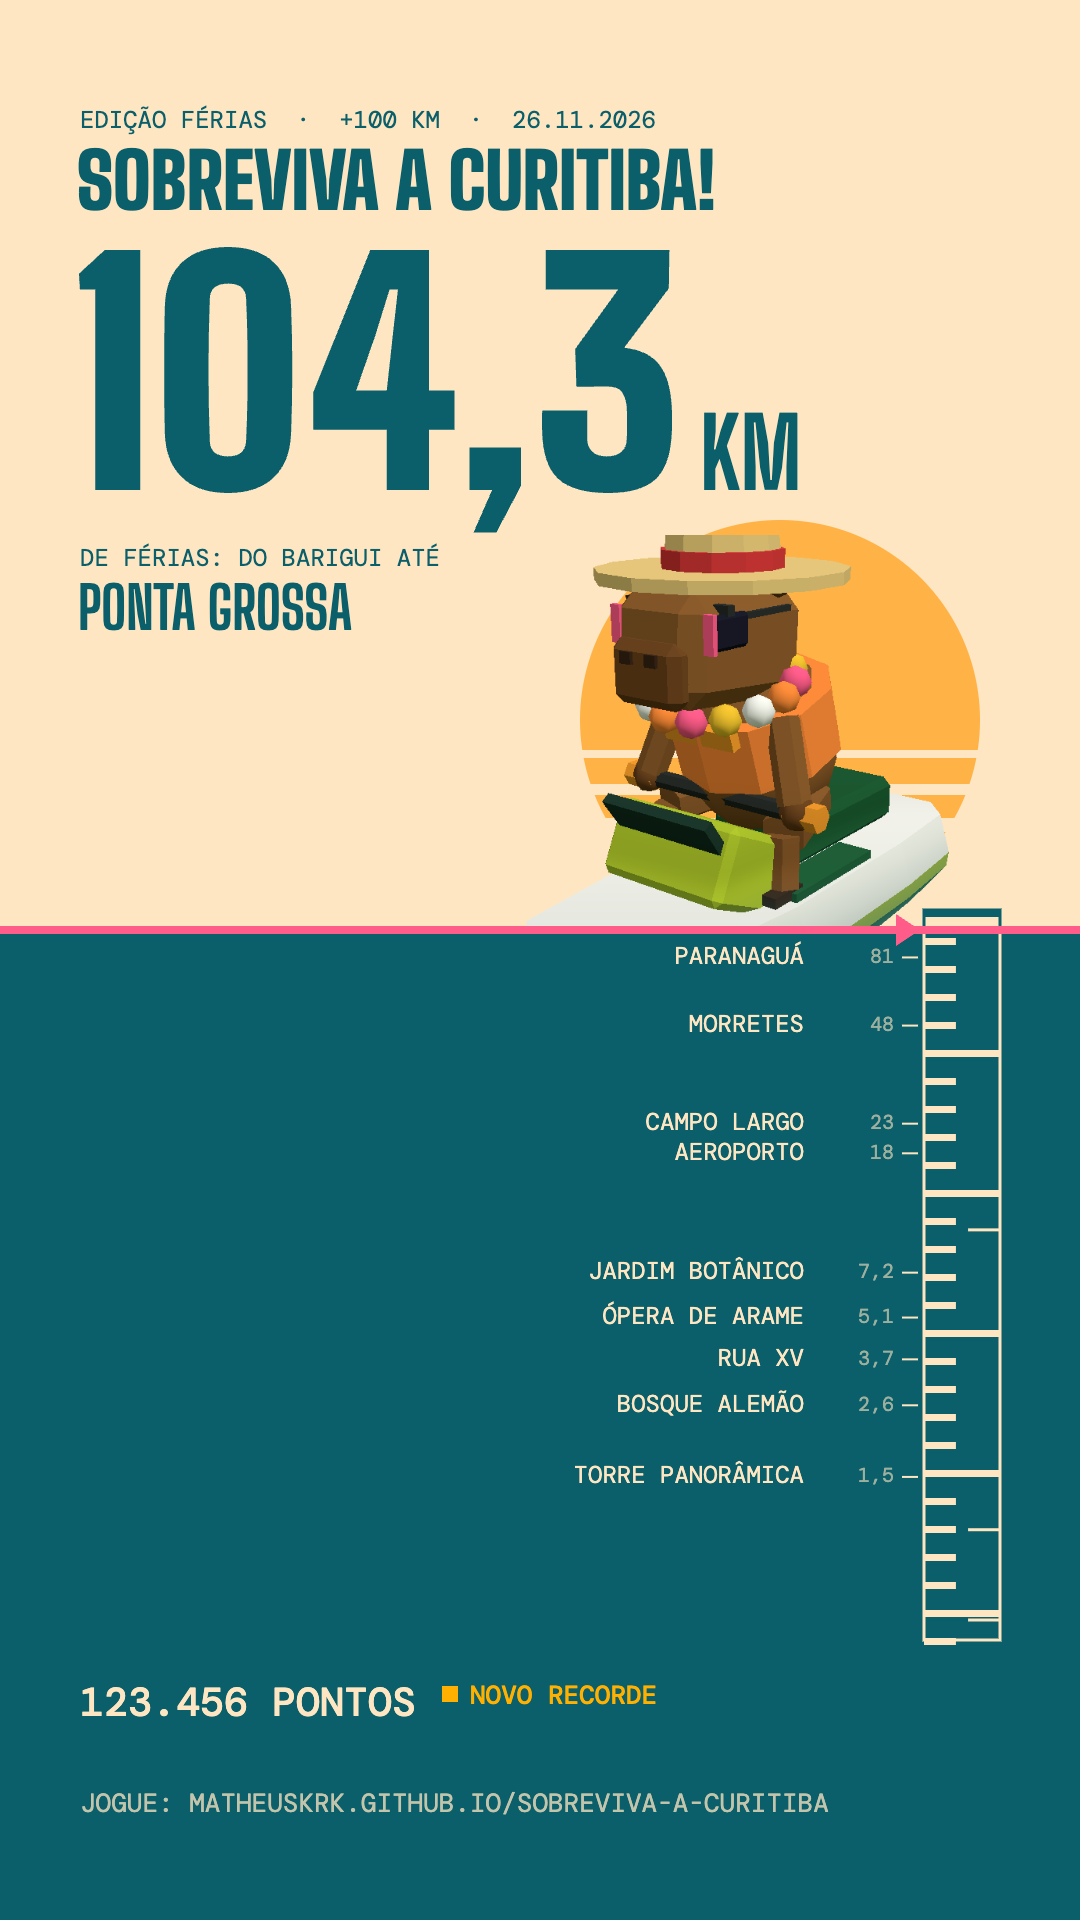
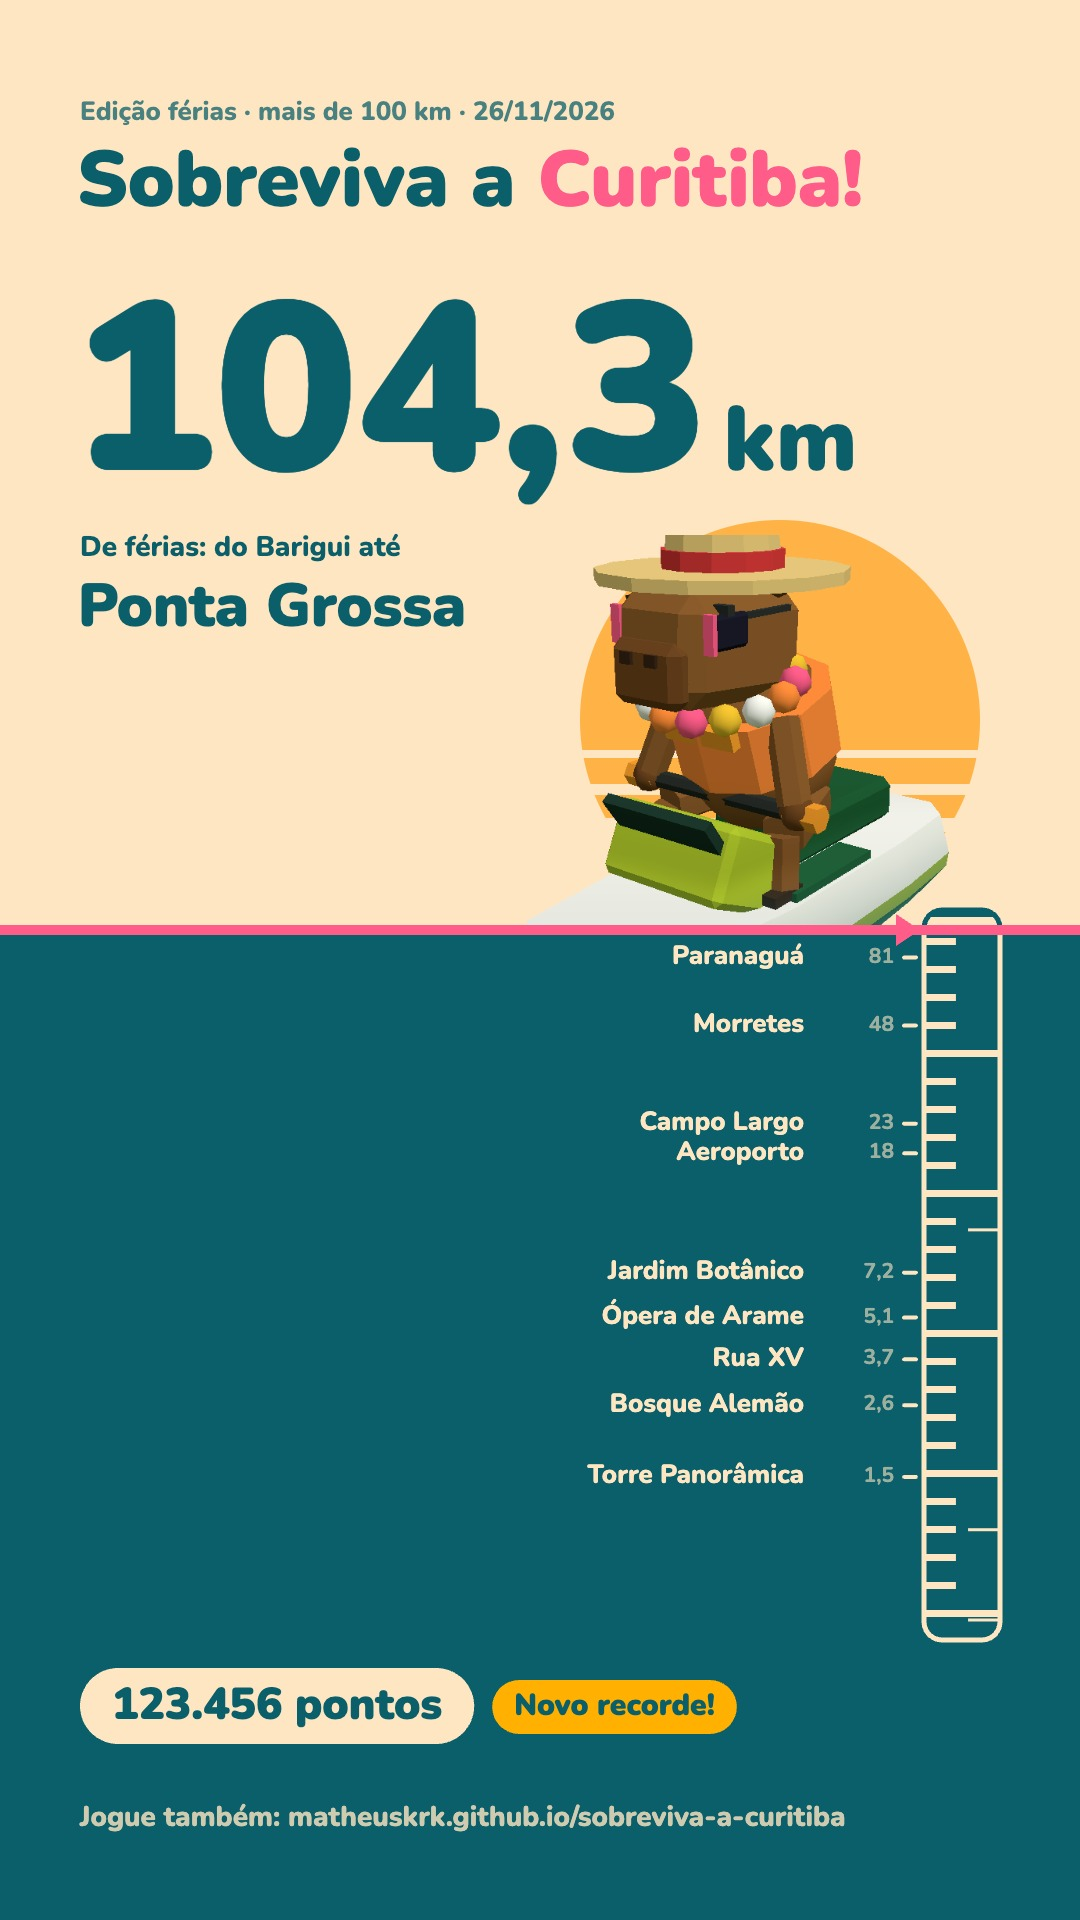
Cards dos stories na estética do menu: Nunito, cantos arredondados, pontos e recorde em pílulas

diff --git a/index.html b/index.html
@@ -2583,9 +2583,12 @@ function heroShot(S = 640, capiGeo = null, opt = {}) {
 async function makeCard(km, score, rec) {
   const FER = km >= 100; // passou de 100 km: edição de férias, mesma régua com outras cores
   // "Cota de Cheia": o card é uma régua de nível de rio; a água sobe até a distância da partida (escala logarítmica)
-  const BS = '"Big Shoulders Display", "Arial Narrow", sans-serif', MONO = '"DM Mono", ui-monospace, monospace';
-  try { await Promise.all([document.fonts.load(`900 300px ${BS}`), document.fonts.load(`700 60px ${BS}`), document.fonts.load(`400 26px ${MONO}`), document.fonts.load(`500 34px ${MONO}`)]); } catch (e) {}
+  // mesma letra do menu (Nunito, arredondada)
+  const BS = 'Nunito, "Arial Rounded MT Bold", sans-serif', MONO = BS;
+  try { await Promise.all([document.fonts.load(`900 200px ${BS}`), document.fonts.load(`800 40px ${BS}`), document.fonts.load(`700 24px ${BS}`)]); } catch (e) {}
+  const rr = (x, y, w, h, r) => { g.beginPath(); g.moveTo(x + r, y); g.arcTo(x + w, y, x + w, y + h, r); g.arcTo(x + w, y + h, x, y + h, r); g.arcTo(x, y + h, x, y, r); g.arcTo(x, y, x + w, y, r); g.closePath(); };
   const W = 1080, H = 1920, M = 80, c = document.createElement('canvas'); c.width = W; c.height = H; const g = c.getContext('2d');
+  const LEAF = FER ? '#ff5c8a' : '#5a9a4a';
   const [PAPER, INK, LIME, ORANGE] = FER ? ['#ffe6c2', '#0b5f6a', '#ff5c8a', '#ffb000'] : ['#eee8d5', '#1d4a3c', '#b5cc2e', '#f0892a'];
   const nf = (v, d = 1) => v.toLocaleString('pt-BR', {minimumFractionDigits: d, maximumFractionDigits: d});
   // escala da régua
@@ -2609,45 +2612,52 @@ async function makeCard(km, score, rec) {
   const GX = W - M - 76, GW = 76;
   dual(col => {
     g.fillStyle = col; g.strokeStyle = col; g.lineWidth = 3;
-    g.strokeRect(GX, Y1 - 20, GW, Y0 - Y1 + 40);
+    g.lineWidth = 5; rr(GX, Y1 - 20, GW, Y0 - Y1 + 40, 18); g.stroke();
+    g.save(); rr(GX, Y1 - 20, GW, Y0 - Y1 + 40, 18); g.clip();
     for (let y = Y1 - 20, k = 0; y < Y0 + 20; y += 14, k++) {
       if (k % 2 === 0) g.fillRect(GX, y, GW * (k % 10 === 0 ? 1 : 0.42), 7);
     }
     for (const d of [0.5, 1, 10, 100]) { const y = yOf(d); g.fillRect(GX + GW * 0.58, y - 1.5, GW * 0.42, 3); }
+    g.restore();
   });
   // destinos marcados na régua (só os que não se atropelam)
-  const MARK = [[1.5, 'TORRE PANORÂMICA'], [2.6, 'BOSQUE ALEMÃO'], [3.7, 'RUA XV'], [5.1, 'ÓPERA DE ARAME'], [7.2, 'JARDIM BOTÂNICO'],
-    [18, 'AEROPORTO'], [22.6, 'CAMPO LARGO'], [48, 'MORRETES'], [81, 'PARANAGUÁ']];
+  const MARK = [[1.5, 'Torre Panorâmica'], [2.6, 'Bosque Alemão'], [3.7, 'Rua XV'], [5.1, 'Ópera de Arame'], [7.2, 'Jardim Botânico'],
+    [18, 'Aeroporto'], [22.6, 'Campo Largo'], [48, 'Morretes'], [81, 'Paranaguá']];
   dual(col => {
     g.fillStyle = col; g.textAlign = 'right'; g.textBaseline = 'middle';
     for (const [k, n] of MARK) {
       const y = yOf(k); if (Math.abs(y - level) < 20) continue; // a linha d'água toma o lugar do rótulo
-      g.font = `400 24px ${MONO}`; g.fillText(n, GX - 120, y);
-      g.font = `400 20px ${MONO}`; g.globalAlpha = 0.6; g.fillText(nf(k, k < 10 ? 1 : 0), GX - 30, y); g.globalAlpha = 1;
-      g.fillRect(GX - 22, y - 1, 16, 2);
+      g.font = `800 26px ${MONO}`; g.fillText(n, GX - 120, y);
+      g.font = `700 21px ${MONO}`; g.globalAlpha = 0.6; g.fillText(nf(k, k < 10 ? 1 : 0), GX - 30, y); g.globalAlpha = 1;
+      rr(GX - 22, y - 2, 16, 4, 2); g.fill();
     }
   });
   // linha d'água da partida
-  g.fillStyle = LIME; g.fillRect(0, level - 4, W, 8);
+  g.fillStyle = LIME; rr(-10, level - 5, W + 20, 10, 5); g.fill();
   g.beginPath(); g.moveTo(GX - 4, level); g.lineTo(GX - 28, level - 16); g.lineTo(GX - 28, level + 16); g.closePath(); g.fill();
-  // cabeçalho
+  // cabeçalho: como o menu (título com "Curitiba!" em verde, número grande, destino)
   dual(col => {
-    g.fillStyle = col; g.textAlign = 'left'; g.textBaseline = 'alphabetic';
-    g.font = `400 24px ${MONO}`; const dt = new Date();
-    g.fillText(`${FER ? 'EDIÇÃO FÉRIAS  ·  +100 KM' : 'COTA DA CHEIA'}  ·  ${String(dt.getDate()).padStart(2, '0')}.${String(dt.getMonth() + 1).padStart(2, '0')}.${dt.getFullYear()}`, M, 128);
-    g.font = `900 76px ${BS}`; g.fillText('SOBREVIVA A CURITIBA!', M - 3, 210);
-    g.font = `900 300px ${BS}`; const num = nf(km); g.fillText(num, M - 10, 490);
-    const nw = g.measureText(num).width; g.font = `700 96px ${BS}`; g.fillText('KM', M + nw + 6, 490);
-    g.font = `400 24px ${MONO}`; g.fillText(FER ? 'DE FÉRIAS: DO BARIGUI ATÉ' : 'DAVA PRA IR DO BARIGUI ATÉ', M, 566);
-    g.font = `700 58px ${BS}`; g.fillText(destinoNome(km).toUpperCase(), M - 2, 630);
+    const dt = new Date();
+    g.textAlign = 'left'; g.textBaseline = 'alphabetic'; g.fillStyle = col;
+    g.font = `800 26px ${BS}`; g.globalAlpha = 0.75;
+    g.fillText(`${FER ? 'Edição férias · mais de 100 km' : 'Cota da cheia'} · ${String(dt.getDate()).padStart(2, '0')}/${String(dt.getMonth() + 1).padStart(2, '0')}/${dt.getFullYear()}`, M, 120); g.globalAlpha = 1;
+    g.font = `900 78px ${BS}`; g.fillText('Sobreviva a ', M - 3, 206);
+    const w1 = g.measureText('Sobreviva a ').width; g.fillStyle = col === INK ? LEAF : col; g.fillText('Curitiba!', M - 3 + w1, 206); g.fillStyle = col;
+    const num = nf(km); let fs = 250; g.font = `900 ${fs}px ${BS}`; while (g.measureText(num).width > 640 && fs > 120) { fs -= 6; g.font = `900 ${fs}px ${BS}`; }
+    g.fillText(num, M - 8, 470); const nw = g.measureText(num).width; g.font = `900 90px ${BS}`; g.fillText('km', M + nw + 8, 470);
+    g.font = `800 28px ${BS}`; g.fillText(FER ? 'De férias: do Barigui até' : 'Dava pra ir do Barigui até', M, 556);
+    g.font = `900 60px ${BS}`; const dn = destinoNome(km); g.fillText(dn.charAt(0).toUpperCase() + dn.slice(1), M - 2, 626);
   });
-  // rodapé: pontos e link
-  dual(col => {
-    g.fillStyle = col; g.textAlign = 'left'; g.textBaseline = 'alphabetic';
-    g.font = `500 40px ${MONO}`; const pts = score.toLocaleString('pt-BR') + ' PONTOS'; g.fillText(pts, M, 1716);
-    if (rec) { const x = M + g.measureText(pts).width + 26; g.fillStyle = ORANGE; g.fillRect(x, 1686, 16, 16); g.font = `500 26px ${MONO}`; g.fillText('NOVO RECORDE', x + 28, 1704); g.fillStyle = col; }
-    g.font = `400 26px ${MONO}`; g.globalAlpha = 0.75; g.fillText('JOGUE: ' + GAME_URL.replace('https://', '').replace(/\/$/, '').toUpperCase(), M, 1812); g.globalAlpha = 1;
-  });
+  // rodapé: pontos numa pílula, recorde e link
+  {
+    const pts = score.toLocaleString('pt-BR') + ' pontos';
+    g.font = `900 44px ${BS}`; const pw = g.measureText(pts).width + 64;
+    g.fillStyle = PAPER; rr(M, 1668, pw, 76, 38); g.fill();
+    g.fillStyle = INK; g.textAlign = 'left'; g.textBaseline = 'middle'; g.fillText(pts, M + 32, 1708);
+    if (rec) { const x = M + pw + 18; g.font = `900 30px ${BS}`; const rw = g.measureText('Novo recorde!').width + 44; g.fillStyle = ORANGE; rr(x, 1680, rw, 54, 27); g.fill(); g.fillStyle = FER ? INK : '#fff'; g.fillText('Novo recorde!', x + 22, 1708); }
+    g.textBaseline = 'alphabetic'; g.fillStyle = PAPER; g.globalAlpha = 0.8; g.font = `800 28px ${BS}`;
+    g.fillText('Jogue também: ' + GAME_URL.replace('https://', '').replace(/\/$/, ''), M, 1826); g.globalAlpha = 1;
+  }
   return c;
 }
 let cardBlob = null, cardText = '';
